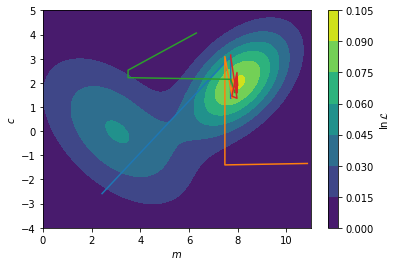
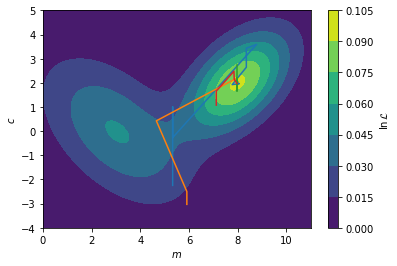
deploy: df79b967f5d3d94fc520a7e24f9d244747b547f7

diff --git a/searchindex.js b/searchindex.js
@@ -1,1 +1,1 @@
-Search.setIndex({docnames:["fitting_processes_and_problems/how_do_we_maximise_the_likelihood","fitting_processes_and_problems/how_to_leverage_our_prior_knowledge","fitting_processes_and_problems/what_is_the_likelihood","intro","model_dependent_analysis/what_is_model_dependent_analysis","model_reparameterisation/a_case_for_model_reparameterisation","model_reparameterisation/niti_multilayer_example","model_reparameterisation/phospholipid_monolayer_example","reflectometry_slab_models/how_we_calculate_the_reflectivity_of_a_slab_model","reflectometry_slab_models/roughness_and_microslicing","reflectometry_slab_models/the_slab_model","the_fourier_transform/an_introduction_to_fourier_transforms","the_fourier_transform/fourier_transforms_for_reflectometry_analysis"],envversion:{"sphinx.domains.c":2,"sphinx.domains.changeset":1,"sphinx.domains.citation":1,"sphinx.domains.cpp":4,"sphinx.domains.index":1,"sphinx.domains.javascript":2,"sphinx.domains.math":2,"sphinx.domains.python":3,"sphinx.domains.rst":2,"sphinx.domains.std":2,"sphinx.ext.intersphinx":1,"sphinxcontrib.bibtex":7,sphinx:56},filenames:["fitting_processes_and_problems/how_do_we_maximise_the_likelihood.ipynb","fitting_processes_and_problems/how_to_leverage_our_prior_knowledge.md","fitting_processes_and_problems/what_is_the_likelihood.ipynb","intro.md","model_dependent_analysis/what_is_model_dependent_analysis.md","model_reparameterisation/a_case_for_model_reparameterisation.md","model_reparameterisation/niti_multilayer_example.ipynb","model_reparameterisation/phospholipid_monolayer_example.ipynb","reflectometry_slab_models/how_we_calculate_the_reflectivity_of_a_slab_model.ipynb","reflectometry_slab_models/roughness_and_microslicing.ipynb","reflectometry_slab_models/the_slab_model.md","the_fourier_transform/an_introduction_to_fourier_transforms.ipynb","the_fourier_transform/fourier_transforms_for_reflectometry_analysis.ipynb"],objects:{},objnames:{},objtypes:{},terms:{"0":[0,1,2,3,7,8,9,12],"00039":3,"001":[8,9,12],"00260":3,"0053":3,"01980001503076100":3,"022":[3,6],"02614057":0,"0294":3,"03":3,"0330252":0,"04031769":0,"04493869":0,"0469":3,"04893":3,"0496667614679125":2,"06":[6,9],"07":3,"078":3,"09209783":0,"0j":[8,9],"1":[0,1,2,3,6,7,8,9,11,12],"10":[0,2,3,6,9,12],"1000":[0,2,7,8,12],"1008202821328":3,"1016":3,"1023":3,"1039":3,"104":12,"1051":3,"108":3,"1098":3,"11":[0,3,9],"1103":3,"1107":3,"1198":3,"12":[2,3,9],"1204":3,"15":[3,7],"16":[8,12],"16748113":0,"1761":3,"1763":3,"18":[3,7],"186":12,"186e":[8,9,12],"19":[3,7],"193":3,"1948":3,"194812030504":3,"1954":3,"197":3,"1980":3,"1997":3,"1998":3,"1999":3,"1e":9,"1f77b4":2,"1j":[8,12],"2":[0,2,3,4,6,8,9,12],"20":[8,9,12],"200":[3,8,9,12],"2006":3,"2011":3,"2018":3,"2019":3,"2021":3,"20384101638663543":2,"204":3,"21":3,"23":6,"248":3,"265":7,"265n_c":7,"2827":3,"2848":3,"297":3,"2e":9,"2k_nk_":9,"3":[0,2,3,6,8,9,10,12],"300":[8,12],"311":3,"338":3,"341":3,"342":3,"357":3,"359":3,"369":3,"370":3,"3blue1brown":11,"3e":[6,9],"4":[0,2,3,6,8,9,10,12],"417":6,"417e":6,"418":3,"42":2,"4245e":9,"438":6,"44":3,"4526":3,"47":6,"471":3,"5":[0,7,8,9],"500":[8,9,12],"504":3,"51":6,"52":3,"520":3,"53":3,"531":3,"58":6,"596":3,"5q":8,"6":[0,3,6,8,9,12],"6133":3,"6141":3,"69":6,"7":[0,2,7,9],"761":3,"779":3,"8":[0,2,6,9],"856832":3,"867":6,"871":12,"871e":[8,9,12],"9":[3,6,9],"90":7,"90434192":0,"908":6,"91":6,"922868":3,"9493e":9,"95":3,"951e":6,"978":3,"98":[3,12],"99":3,"9957561":0,"99615666":0,"99998503":0,"99999727":0,"\u00e0":3,"\u00e5":[6,7,8,9,11,12],"\u00e8":3,"\u00e9":3,"\u00f6":3,"abel\u00e8":[8,9],"abstract":6,"case":[1,10],"do":[4,8,12],"float":[0,2,6],"function":[0,2,4,7,8,9,10,12],"import":[0,2,4,6,7,8,9,10,12],"int":12,"return":[0,2,6,8,12],"switch":3,"true":0,"while":6,A:[3,4,6,7,9,10,12],As:10,Be:0,By:4,For:[2,3,5,6,7,12],If:[0,1,2,3,4,12],In:[0,1,3,4,5,7,10,12],It:[0,1,3,4,7,9,10],No:9,The:[0,2,3,4,5,6,7,8,9,11],Then:[4,8,12],There:[0,9],These:[0,9,12],_:[8,12],ab:[8,12],abel:[3,8,9],abeles48:[3,8],abeles_with_rough:9,abl:[5,9],about:[0,1,3,5],abov:[0,2,4,6,12],abscissa:2,absolut:0,accept:1,account:9,accur:4,acf2:12,acf:12,acheiv:7,achiev:[1,9],act:7,action:12,activ:5,ad:7,adapt:9,add:7,add_patch:9,addit:[5,7,12],addition:[4,6,8,9],admittedli:9,after:[0,12],again:[9,12],against:10,agre:2,agreement:[0,2,4],aid:8,aim:[0,2,3],air:[3,7,9,12],al:5,algorithm:[0,1,3,4],all:[1,8,11],allow:[5,6,7],alon:0,alpha:2,alreadi:[1,4],also:[6,7,9],although:12,amphiphil:7,an:[1,3,4,5,9,10],analog:[2,11],analogu:0,analys:[0,3],analysi:[0,1,2,3,6,7,8,10],analyt:4,andrew:3,angstrom:6,ani:[3,9],anlaysi:6,ann:3,anoth:12,anphi:3,apm:7,append:0,appl:3,appli:[0,4,5,7,9,12],applic:[0,3,8],approach:[0,3,4,5,6,7,8,9,10,12],approx:12,approxim:[3,8],ar:[0,1,2,3,4,5,6,7,8,9,10,11,12],area:5,argmax:0,argsort:0,arnold:3,around:9,arrai:[0,6,8,9,12],artifact:9,assembl:7,assess:0,assign:6,associ:[1,2,3],assum:[3,7],assumpt:[4,6,7],atom:[6,7],attach:7,attent:3,autocorrel:12,avail:12,avogardo:6,awar:[0,4],ax:[2,9],axhlin:12,b:[3,6,8],b_:[6,8],b_i:[6,7],b_ni:6,b_ti:6,back:0,bar:[2,8],base:[4,5,6,8],bay:[1,3],bayesian:[1,3],becom:12,been:[3,6,7,8,9,12],befor:[9,10,11],begin:8,being:[2,4],belief:1,believ:4,below:[0,2,6,7,8,9,10,11,12],benefit:7,berk:3,best:[0,2],beta:[6,7,8,9,12],beta_0:8,beta_1:10,beta_2:10,beta_:[6,7,12],beta_i:7,beta_microsl:9,beta_n:8,beta_ni:6,beta_ti:6,between:[0,2,4,8,9,10,11,12],bewteen:12,beyond:0,bia:4,bias:1,bigg:[2,12],biolog:[0,3],bj:3,bjorck11:[0,3],black:[0,12],block:3,blue:[0,2,12],bmatrix:8,book:[1,12],born:[3,8],borrow:12,both:7,bound:[1,6],bowen:3,bp63:[1,3],bring:8,broad:[2,4],broadli:4,brought:8,bsd:8,c9cp00203k:3,c:[0,2,3,12],calcul:[2,4,7,9,10,12],call:10,callback:0,campbel:3,can:[0,1,2,3,4,5,6,7,8,9,10,12],cannot:9,caract:3,carbon:7,career:4,cation:3,caus:7,cdot:6,chanc:3,chang:[4,12],character:3,characterist:8,characteristic_matric:8,charg:12,chem:3,chemic:[3,5,10],chemistri:4,chi:2,circ:7,clear:[0,4,9,10],clearer:8,clifton:3,close:8,cm:6,code:[0,3,6,9],collect:3,colloid:3,color:2,colorbar:0,comfort:3,common:[0,4,6,7,9,10],commonli:[0,2,5],companion:3,compar:[2,4,5,8,9],comparison:10,complet:[0,4],complex:[0,7,8],composit:7,concept:5,conclus:0,conj:8,conjug:8,consid:[0,1,2,4,6,7,8,9,10,12],consist:[6,7,10],constant:[1,4,6],constrain:[5,6,7],constraint:[5,7],construct:[1,4,8,10],content:3,context:4,continu:3,contourf:0,could:[1,10],coupl:0,cours:[0,3,4],cover:4,creat:9,croce:[3,9],crystallogr:3,crystallographi:12,css:[3,7],cubitt:3,curr:3,current:0,current_theta:0,curve_fit:2,d:[2,3,8,9,12],d_1:10,d_2:10,d_h:7,d_i:7,d_microsl:9,d_n:8,d_t:7,dan:3,data:[0,1,2,3,4,5,6,7,8,9,10,12],databas:6,datapoint:2,de:3,decomposit:11,deep:3,def:[0,2,6,8,12],defin:[2,4,6,7,10],deg2rad:7,delta:12,denot:12,densiti:[5,7,8,9,10,12],depend:[0,1,2,3,6,7,10],deposit:6,deriv:[10,12],descent:0,describ:[1,4,8,9,10],descript:[5,7,12],design:1,desir:[0,6],deslatt:3,destruct:10,detail:[4,11,12],determin:[0,3,8],develop:3,deviat:[2,8],devind:[1,12],diatom:4,diff:[8,12],differ:[9,10,12],differenti:[0,1,3],differential_evolut:0,difficult:7,dimens:[10,12],dimension:0,dioxid:[9,12],directli:6,discoveri:0,discuss:[2,9,10,12],disposit:6,distribut:[0,2],divid:12,docstr:8,doctrin:3,doe:[4,8,9],doi:3,domain:11,done:2,dot:2,downhil:0,dppc:7,dr:[1,12],draw:0,dtype:8,du:3,due:[4,12],dura:3,e:[3,10],each:[6,7,8,9,10],easili:[0,6],edgecolor:9,edit:3,edler:3,effect:[0,3,7,9,12],effici:3,elast:11,element:[2,6],elementari:[3,12],enabl:[1,9],encount:[0,4],end:8,ensur:4,entir:4,enumer:2,enzym:4,equaion:12,equat:4,error:[2,9],errorbar:2,essai:3,essenti:11,estim:12,et:5,european:3,eutect:3,evalu:[3,6],eventu:0,ever:4,everi:7,evolut:[0,1,3],evolutionari:0,exampl:[0,1,4,5,9,10],exist:9,exp:[8,9,12],expect:[1,4],experi:4,experiment:[2,4,5,10],explicitli:12,extend:7,extrem:[4,7,9],f:[3,6,8],factor:[2,8],fair:4,fals:9,familiar:[4,5,12],fantast:12,far:2,fashion:0,feel:3,fernandez:3,ff7f0e:2,fig:[2,4,7,9,10],figsiz:[2,9],figur:[0,2,3,4,9,12],fill:9,fill_between:2,find:[0,1,2,4,6,7,9,12],first:[0,2,6,8,10,12],firstli:4,fit:[2,4,6],flat:[9,12],flavour:0,flexion:3,flow:4,fm:6,focus:11,follow:[0,2,3,6,7,12],forc:4,form:[0,12],formal:[8,9],format:3,found:[0,1,6,7,8,9,12],fourier:[3,4,8,10],fourier_transform:12,frac:[1,2,6,7,8,9,12],fraction:7,free:3,frensel:8,fresnel:[8,9],fresnel_reflect:8,from:[0,2,3,4,5,6,7,8,9,10,11,12],full:12,fulli:7,fundament:[10,11],further:[0,1],g:[3,6],gcm:6,gener:[4,10],genet:3,geometri:10,gerelli:3,get:[2,3,4],give:[3,8,11],given:[0,2,5,7,9,10],gloabl:0,glob:3,global:[0,3],go:[0,8,10],good:2,gradient:2,gradient_callback:0,gradient_v:0,graphic:6,great:[1,11],greater:12,group:7,guess:0,h:3,ha:[3,6,7,9,12],hand:9,hard:6,have:[1,2,3,4,7,8,9,12],head:7,heavili:3,heavisid:12,helper:[0,9],henc:11,here:[2,8],heurist:3,higher:7,hopefulli:10,horizont:12,how:[2,3,4,5,10],howev:[0,2,4,5,6,9,10,12],hydrocarbon:7,hydrophil:7,hydrophob:[3,7],i:[2,6,7,8,10,12],identifi:9,ignor:9,implement:[0,8,9],impli:9,impos:1,improv:4,incid:[10,12],includ:[3,4,6,7,8,11],incorrectli:9,increas:[0,2,9],independ:4,indic:[0,2,12],individu:[6,8],induc:3,infact:1,influenc:9,inform:12,infti:12,inher:4,initi:0,input:8,insect:0,insight:[3,4],insolubl:7,inspir:0,instead:[0,1,6,8,12],integr:[1,3],intens:12,interact:[11,12],intercal:7,intercept:2,interest:[4,11],interfac:[3,7,8,9,10],interfer:10,interogr:9,interpret:9,introduc:[1,3,4,5,7,9,10],introduct:1,inv_fourier_transform:12,invers:[3,12],investig:[0,4,12],involv:[6,10],isbn:3,isi:3,issu:12,its:6,j:3,jackson:3,jci:3,john:[3,5],jpsc21:[3,5],jupyterhub:3,k0:8,k:[0,3,8,12],k_0:8,k_:[8,9],k_n:[8,9],karin:3,kinet:4,kn:8,knowledg:3,known:[4,7,9],l:[0,1,2,3],la:3,label:[0,8,9,12],languag:[3,5],larg:[3,9,12],later:[6,10],lawrenc:3,layer:[6,7,8,9,10],le:3,lead:[4,9,10,11],leak:9,lectromagn:3,lectur:3,left:9,legend:[8,9,12],length:[5,7,8,9,10,12],less:10,let:[1,12],licens:8,like:[1,4,7,9],likelihood:1,likleihood:1,limit:[4,6,7,12],line:[0,2,12],linearli:2,linspac:[0,2,7,8,9,12],lipid:3,literatur:5,ln:[0,2],loadtxt:2,local:0,log:[2,8,9,12],logic:[1,3,4],logpdf:0,lond:3,look:[0,1,2,4,8,11,12],loss:12,lost:10,lovel:3,low:8,lr99:[3,4],ls:2,lw:2,m:[0,2,3,8],m_:[6,8],m_w:6,m_w_ni:6,m_w_ti:6,made:[4,6],magnitud:12,mai:[2,5,6,9],majkrzak:3,major:[2,6],make:[3,4,5,7,8],mani:0,marker:2,mass:5,match:12,materi:[5,6,8,9,10,12],mathcal:[0,1,2],mathemat:3,mathit:[8,12],mathrm:[2,6,7,8,12],matnei:3,matplotlib:[0,2,7,8,9,12],matric:8,matrix:[8,9],matter:6,matyszewska:3,max:[2,8,12],maxima:0,maximis:[1,2],maximum:[0,1,2,7],mbd:[3,12],mccluskei:3,mead:0,mean:[0,6,7,9,12],measur:[1,2,4,10,11,12],media:8,member:0,membran:3,menten:4,merit:4,meshgrid:0,method:[3,8,9],methodolog:[0,3,4,9,12],metric:[0,2],micel:3,micha:4,might:4,milieux:3,minim:0,minima:0,minimis:[0,2],minimum:[0,1],modal:0,model:[0,1,2,3,6,7,9,12],modifi:9,modul:[0,9],mol:6,molecul:[4,5],molecular:6,monlay:7,monolay:3,more:[0,1,2,4,5,6,7,9,11],most:[0,8,9,10],move:0,movement:3,msfe:[3,7],much:[8,10],multi:0,multivariate_norm:0,must:[4,7],mv1:0,mv2:0,mv:0,my:3,n:[2,3,6,7,8,9],n_:[2,8],n_a:6,n_c:7,natur:7,nazaruk:3,ndarrai:[0,2,6,8,12],nearbi:0,necessari:[0,8,9],need:4,neg:0,nelder:0,nelson:3,neutron:[0,4,6,8,10,11,12],nevot:9,nevotc80:[3,9],newaxi:[8,12],ni:6,nickel:[6,9],nll:0,nois:12,noisi:12,non:0,none:0,norm:2,normal:[0,2,8,12],normal_wavevector:8,normalis:[2,12],note:[4,7,12],notic:[2,9],now:[0,2,7,8,9],np19:[3,8],np:[0,2,6,7,8,9,12],nuanc:10,nuetron:12,number:[0,2,6,7,12],number_lay:8,number_q:8,numpi:[0,2,6,7,8,9,12],o:2,oberal:0,observ:[2,9,10,12],obtain:[0,6,9,12],obvious:10,offer:4,onc:[0,1],ond:3,one:[0,2,7],ones:8,onli:[6,7,9,12],onlin:6,opin:3,optim:[0,2,3],optimis:[0,7],optimum:0,orang:[0,2],order:[0,8,10,12],origin:3,other:[2,7],our:[0,2,4,5,6,7,9,10,12],out:[1,6],outsid:1,over:3,overal:[0,2,8],overview:11,oxford:3,p0:8,p1:8,p:[1,2,3],packag:[6,8],pai:3,pair:5,panaccion:3,panosc:3,par54:[3,8],par:3,param:[2,6,8,12],paramet:[1,2,5,6,7,8,9,10],parameteris:[3,5],pari:3,parker:3,parratt:3,part:[2,12],particl:0,particular:[5,10],patch:9,path:[0,10],pattern:[10,11],pdf:[0,2],peak:12,pedulla:3,per:5,perfect:9,perfectli:9,perform:[2,11,12],perpendicular:12,pg:12,phase:[3,4,8,12],phase_factor:8,phi:8,phi_0:8,phi_i:7,phi_n:8,phi_t:8,phil:3,phospholipid:3,phy:3,physic:[3,4,5,7,10,12],physica:3,physrev:3,pi:[2,8,12],pictori:7,piec:[6,9,12],pint:6,place:1,plane:[7,12],pleas:3,plot:[0,2,3,7,8,9,12],plt:[0,2,7,8,9,12],point:2,polissag:3,popul:0,popular:4,posit:0,possibl:[0,2,4,7,9,10,12],posterior:1,power:3,prepar:[4,6],prescott:3,present:[4,12],press:3,pressur:7,preston:3,previou:4,previous:[5,8,9],price:3,print:[0,6],probabl:[1,2],probe:[0,1,4],problem:[0,3,4,12],procedur:3,process:[3,4,5,6],prod:8,produc:[3,4,12],product:8,profil:[9,10,12],program:3,project:3,propag:[3,8,10],propos:4,propto:1,py:[0,9],pyplot:[0,2,7,8,9,12],python:[3,8],q2:12,q:[4,8,9,11,12],q_:12,q_x:12,q_y:12,qualiti:0,quelqu:3,question:3,quick:12,r2:12,r:[3,7,8,9,10,12],r_:[8,9],r_abel:8,r_fourier:8,r_microsl:9,r_nevot_croc:9,r_with_rough:9,radiat:[11,12],rai:[3,12],random:0,rang:[4,8,9,12],rasant:3,rather:[4,5,6],ratio:10,ration:0,rayon:3,rck:3,re:0,reach:[0,6],reader:3,real:[8,9,10],realli:4,reason:6,rectangl:9,red:9,reduc:7,refin:10,reflect:[3,4,9,10,12],reflectometri:[0,2,4,5,6,7,8,9,10],refnx:[3,8],refract:[8,10],region:[0,7,9,12],relat:6,relationship:12,relev:7,reli:8,render:12,reparameteris:[2,3,6,7,10],repeat:6,repres:[2,4],reproduc:8,requir:3,res1:0,res2:0,resolut:[4,12],respect:12,result:[0,4,8,9,10,12],resultant_matrix:8,retriv:12,rev:3,rewrit:12,rho:[6,8],rho_:6,rho_ni:6,rho_ti:6,rho_to_beta:6,richardson:3,right:9,risat:3,robust:0,room:6,root:0,rout:0,rphysap:3,rsta:3,rstl:3,rule:9,s0021889811041446:3,s0921:3,s1359:3,s1600576718017296:3,s:[3,6,7,12],saaka:3,sai:12,same:[2,6,9,10,12],sampl:[4,6,9,11,12],sanchez:3,sansom:3,satija:3,scale:[3,12],scatter:[3,5,7,8,9,10,12],sci:3,scienc:4,scipi:[0,2,6],scope:0,section:[0,4,5,10],see:[0,9,10],seen:[1,2],select:2,self:7,semi:0,sensit:12,seri:[8,9,10],set:6,set_xlabel:[2,9],set_xlim:9,set_ylabel:[2,9],set_ylim:9,shao:3,shape:[0,8],shortest:9,should:[2,3,7,9,12],show:[0,2,3,4,6,7,8,9,10,12],shown:[0,2,4,7,8,9,10,12],si:12,sigma2:9,sigma3:9,sigma5:9,sigma7:9,sigma:[2,9],sigma_:9,sigma_n:2,silic:3,silicon:[6,9,12],similar:8,simpl:[0,1,3,4,6,7,10,12],simpli:0,simul:[4,5,6],sin:7,singl:[2,7],sio_2:12,sit:[2,7],siv11:[3,12],sivia:[1,3,12],sj06:[1,3],skill:3,skip:3,slab:[3,5,7,9],sld_with_rough:9,smooth:[9,12],so:2,soc:3,solid:3,solubl:7,solut:0,solv:3,solvat:7,solvent:[3,7],some:[0,1,2,4,7,9,10,11,12],someth:11,son:3,sourc:3,sp97:[0,3],space:[0,3,11],spallat:3,spectra:4,specular:3,sqrt:8,squar:[8,12],sratifi:3,standard:2,start:[0,1],stat:[0,2],state:1,step:[0,1,9],still:[6,9,12],stoichiometri:5,storn:3,straight_lin:2,straightforward:5,strand:7,stratifi:8,structur:[3,4,6,12],studi:[3,4,12],subject:3,subplot:[2,9],substanti:9,suggest:1,sum:[6,8,12],sum_:[2,6,7],summat:2,superphas:8,sur:3,sure:3,surfac:[3,6,8,12],surfact:3,swarm:0,synthesi:[4,5],system:[0,4,5,6,7,9,10,12],t:[0,3],t_t:7,tackl:4,tail:7,take:[0,1,4],taken:[8,10],tan80:[3,7],tanford:[3,7],techniqu:3,temperatur:6,tend:12,term:[2,5,6,7,10],textquotesingl:3,than:[0,6,12],them:[2,9],theorem:1,theori:[3,12],therefor:[0,1,4,5,6,9],theta:[0,1,2,7],thi:[0,1,2,3,4,5,6,7,8,9,10,11,12],thick:[7,8,9,10,12],thickn:9,thin:9,thing:4,think:5,those:1,thought:12,three:[4,6],through:[5,8,9,10],thumb:9,tight_layout:2,time:[6,9,11,12],tiqu:3,titanium:[6,9],todo:11,togeth:8,tool:[4,5,12],top4:0,top:12,total:3,touch:3,toward:[0,3,12],tradit:[3,6,7],train:3,tran:3,transform:[3,4,8,10],translat:5,transmitt:8,trigonometri:7,tude:3,turn:0,tutori:[1,3],two:[0,4,7,8,9,10],txt:2,typic:[0,2,4,5,6,7,9,10],u:6,uncertainti:2,unclear:6,under:[8,12],underli:[2,4],understand:[1,3,4,5,8,10,12],unintu:5,uniqu:0,unit:11,unitregistri:6,univers:3,unlik:7,unphys:[9,12],until:6,up:0,uphil:0,us:[0,1,2,3,4,5,6,7,8,9],useless:12,user:[3,12],utilis:12,valu:[0,1,2,5,6,7,8,12],valuabl:0,vari:6,variabl:6,varieti:0,vector:8,veri:[0,7,9],verr:3,version:12,vibrat:4,video:11,virtual:3,visualis:[9,12],vot:3,w:[3,6],wa:[1,3,4,10,12],wai:4,watch:11,water:[3,7],wave:[8,10],wavevector:[8,12],we:[1,2,3,4,5,6,7,9,10,11,12],weight:6,well:4,were:[1,7],what:3,when:[0,1,2,7,8,10],where:[0,1,2,4,6,7,8,9,10,12],which:[0,1,2,6,7,8,9,11,12],width:9,wilei:3,within:1,without:[4,9,12],word:4,work:[5,9],workflow:4,wormington:3,would:[1,4,7,9,10],wpmb99:[0,3],written:12,wwe:7,x:[0,2,3,12],x_n:2,xlabel:[0,7,8,9,12],xy:7,y:[0,1,2,3],y_fit:2,y_n:2,ylabel:[0,7,8,9,12],you:[1,2,3,4,12],your:4,yscale:[8,9,12],yy:2,z:[8,9,10,12],zero:8,zeros_lik:[8,12],zorder:2,zq:12},titles:["How do we maximise the likelihood?","How to leverage our prior knowledge?","What is the likelihood?","Introduction to neutron reflectometry fitting","What is model-dependent analysis?","A case for model reparameterisation","NiTi multilayer example","Phospholipid monolayer example","How we calculate the reflectivity of a slab model","Roughness and microslicing","The \u201cslab model\u201d","An introduction to Fourier transforms","Fourier transforms for reflectometry analysis"],titleterms:{"case":5,"do":0,A:[1,5],The:[10,12],algorithm:8,an:[11,12],analysi:[4,12],angl:7,approxim:12,area:7,bibliographi:3,born:12,calcul:8,chain:7,densiti:6,depend:4,exampl:[6,7,12],fit:3,fourier:[11,12],gradient:0,how:[0,1,8],interfac:12,interfaci:9,introduct:[3,11],knowledg:1,layer:12,length:6,leverag:1,likelihood:[0,2],mass:6,maximis:0,method:0,microsl:9,model:[4,5,8,10],molecul:7,monolay:7,multilay:6,neutron:3,niti:6,our:1,oxid:12,per:7,phospholipid:7,prior:1,problem:9,reflect:8,reflectometri:[3,12],reparameteris:5,rough:9,scatter:[6,11],singl:12,slab:[8,10],specular:12,stochast:0,tilt:7,transform:[11,12],uniform:1,us:12,we:[0,8],what:[2,4,11]}})
+Search.setIndex({docnames:["fitting_processes_and_problems/how_do_we_maximise_the_likelihood","fitting_processes_and_problems/how_to_leverage_our_prior_knowledge","fitting_processes_and_problems/what_is_the_likelihood","intro","model_dependent_analysis/what_is_model_dependent_analysis","model_reparameterisation/a_case_for_model_reparameterisation","model_reparameterisation/niti_multilayer_example","model_reparameterisation/phospholipid_monolayer_example","reflectometry_slab_models/how_we_calculate_the_reflectivity_of_a_slab_model","reflectometry_slab_models/roughness_and_microslicing","reflectometry_slab_models/the_slab_model","the_fourier_transform/an_introduction_to_fourier_transforms","the_fourier_transform/fourier_transforms_for_reflectometry_analysis"],envversion:{"sphinx.domains.c":2,"sphinx.domains.changeset":1,"sphinx.domains.citation":1,"sphinx.domains.cpp":4,"sphinx.domains.index":1,"sphinx.domains.javascript":2,"sphinx.domains.math":2,"sphinx.domains.python":3,"sphinx.domains.rst":2,"sphinx.domains.std":2,"sphinx.ext.intersphinx":1,"sphinxcontrib.bibtex":7,sphinx:56},filenames:["fitting_processes_and_problems/how_do_we_maximise_the_likelihood.ipynb","fitting_processes_and_problems/how_to_leverage_our_prior_knowledge.md","fitting_processes_and_problems/what_is_the_likelihood.ipynb","intro.md","model_dependent_analysis/what_is_model_dependent_analysis.md","model_reparameterisation/a_case_for_model_reparameterisation.md","model_reparameterisation/niti_multilayer_example.ipynb","model_reparameterisation/phospholipid_monolayer_example.ipynb","reflectometry_slab_models/how_we_calculate_the_reflectivity_of_a_slab_model.ipynb","reflectometry_slab_models/roughness_and_microslicing.ipynb","reflectometry_slab_models/the_slab_model.md","the_fourier_transform/an_introduction_to_fourier_transforms.md","the_fourier_transform/fourier_transforms_for_reflectometry_analysis.ipynb"],objects:{},objnames:{},objtypes:{},terms:{"0":[0,1,2,3,7,8,9,12],"00039":3,"001":[8,9,12],"00260":3,"0053":3,"01980001503076100":3,"022":[3,6],"02614057":0,"0294":3,"03":3,"0330252":0,"04493869":0,"0469":3,"04893":3,"0496667614679125":2,"06":[6,9],"07":3,"078":3,"09209783":0,"0j":[8,9],"1":[0,1,2,3,6,7,8,9,11,12],"10":[0,2,3,6,9,12],"1000":[0,2,7,8,12],"1008202821328":3,"1016":3,"1023":3,"1039":3,"104":12,"1051":3,"108":3,"1098":3,"11":[0,3,9],"1103":3,"1107":3,"1198":3,"12":[2,3,9],"1204":3,"15":[3,7],"16":[8,12],"16748113":0,"1761":3,"1763":3,"18":[3,7],"186":12,"186e":[8,9,12],"19":[3,7],"193":3,"1948":3,"194812030504":3,"1954":3,"197":3,"1980":3,"1997":3,"1998":3,"1999":3,"1e":9,"1f77b4":2,"1j":[8,12],"2":[0,2,3,4,6,8,9,12],"20":[8,9,12],"200":[3,8,9,12],"2006":3,"2011":3,"2018":3,"2019":3,"2021":3,"20384101638663543":2,"204":3,"21":3,"23":6,"248":3,"265":7,"265n_c":7,"2827":3,"2848":3,"297":3,"2e":9,"2k_nk_":9,"3":[0,2,3,6,8,9,10,12],"300":[8,12],"311":3,"338":3,"341":3,"342":3,"357":3,"359":3,"369":3,"370":3,"3blue1brown":11,"3e":[6,9],"4":[0,2,3,6,8,9,10,12],"417":6,"417e":6,"418":3,"42":2,"4245e":9,"438":6,"44":3,"4526":3,"47":6,"471":3,"5":[0,7,8,9],"500":[8,9,12],"504":3,"51":6,"52":3,"520":3,"53":3,"531":3,"58":6,"596":3,"5q":8,"6":[0,3,6,8,9,12],"6133":3,"6141":3,"69":6,"7":[0,2,7,9],"761":3,"779":3,"8":[0,2,6,9],"8219366":0,"856832":3,"867":6,"871":12,"871e":[8,9,12],"9":[3,6,9],"90":7,"908":6,"91":6,"922868":3,"9493e":9,"95":3,"951e":6,"96445473":0,"978":3,"98":[3,12],"99":3,"9957561":0,"99615666":0,"99998503":0,"99999727":0,"\u00e0":3,"\u00e5":[6,7,8,9,11,12],"\u00e8":3,"\u00e9":3,"\u00f6":3,"abel\u00e8":[8,9],"abstract":6,"case":[1,10],"do":[4,8,12],"float":[0,2,6],"function":[0,2,4,7,8,9,10,12],"import":[0,2,4,6,7,8,9,10,12],"int":12,"return":[0,2,6,8,12],"switch":3,"true":0,"while":6,A:[3,4,6,7,9,10,12],As:10,Be:0,By:4,For:[2,3,5,6,7,12],If:[0,1,2,3,4,12],In:[0,1,3,4,5,7,10,12],It:[0,1,3,4,7,9,10],No:9,The:[0,2,3,4,5,6,7,8,9,11],Then:[4,8,12],There:[0,9],These:[0,9,12],_:[8,12],ab:[8,12],abel:[3,8,9],abeles48:[3,8],abeles_with_rough:9,abl:[5,9],about:[0,1,3,5],abov:[0,2,4,6,12],abscissa:2,absolut:0,accept:1,account:9,accur:4,acf2:12,acf:12,acheiv:7,achiev:[1,9],act:7,action:12,activ:5,ad:7,adapt:9,add:7,add_patch:9,addit:[5,7,12],addition:[4,6,8,9],admittedli:9,after:[0,12],again:[9,12],against:10,agre:2,agreement:[0,2,4],aid:8,aim:[0,2,3],air:[3,7,9,12],al:5,algorithm:[0,1,3,4],all:[1,8,11],allow:[5,6,7],alon:0,alpha:2,alreadi:[1,4],also:[6,7,9],although:12,amphiphil:7,an:[1,3,4,5,9,10],analog:[2,11],analogu:0,analys:[0,3],analysi:[0,1,2,3,6,7,8,10],analyt:4,andrew:3,angstrom:6,ani:[3,9],anlaysi:6,ann:3,anoth:12,anphi:3,apm:7,append:0,appl:3,appli:[0,4,5,7,9,12],applic:[0,3,8],approach:[0,3,4,5,6,7,8,9,10,12],approx:12,approxim:[3,8],ar:[0,1,2,3,4,5,6,7,8,9,10,11,12],area:5,argmax:0,argsort:0,arnold:3,around:9,arrai:[0,6,8,9,12],artifact:9,assembl:7,assess:0,assign:6,associ:[1,2,3],assum:[3,7],assumpt:[4,6,7],atom:[6,7],attach:7,attent:3,autocorrel:12,avail:12,avogardo:6,awar:[0,4],ax:[2,9],axhlin:12,b:[3,6,8],b_:[6,8],b_i:[6,7],b_ni:6,b_ti:6,back:0,bar:[2,8],base:[4,5,6,8],bay:[1,3],bayesian:[1,3],becom:12,been:[3,6,7,8,9,12],befor:[9,10,11],begin:8,being:[2,4],belief:1,believ:4,below:[0,2,6,7,8,9,10,11,12],benefit:7,berk:3,best:[0,2],beta:[6,7,8,9,12],beta_0:8,beta_1:10,beta_2:10,beta_:[6,7,12],beta_i:7,beta_microsl:9,beta_n:8,beta_ni:6,beta_ti:6,between:[0,2,4,8,9,10,11,12],bewteen:12,beyond:0,bia:4,bias:1,bigg:[2,12],biolog:[0,3],bj:3,bjorck11:[0,3],black:[0,12],block:3,blue:[0,2,12],bmatrix:8,book:[1,12],born:[3,8],borrow:12,both:7,bound:[1,6],bowen:3,bp63:[1,3],bring:8,broad:[2,4],broadli:4,brought:8,bsd:8,c9cp00203k:3,c:[0,2,3,12],calcul:[2,4,7,9,10,12],call:10,callback:0,campbel:3,can:[0,1,2,3,4,5,6,7,8,9,10,11,12],cannot:9,caract:3,carbon:7,career:4,cation:3,caus:7,cdot:6,chanc:3,chang:[4,12],character:3,characterist:8,characteristic_matric:8,charg:12,chem:3,chemic:[3,5,10],chemistri:4,chi:2,circ:7,clear:[0,4,9,10],clearer:8,clifton:3,close:8,cm:6,code:[0,3,6,9],collect:3,colloid:3,color:2,colorbar:0,comfort:3,common:[0,4,6,7,9,10],commonli:[0,2,5],companion:3,compar:[2,4,5,8,9],comparison:10,complet:[0,4],complex:[0,7,8],composit:7,concept:5,conclus:0,conj:8,conjug:8,consid:[0,1,2,4,6,7,8,9,10,11,12],consist:[6,7,10],constant:[1,4,6],constrain:[5,6,7],constraint:[5,7],construct:[1,4,8,10],content:3,context:4,continu:3,contourf:0,could:[1,10],coupl:0,cours:[0,3,4],cover:4,creat:9,croce:[3,9],crystallogr:3,crystallographi:12,css:[3,7],cubitt:3,curr:3,current:0,current_theta:0,curve_fit:2,d:[2,3,8,9,12],d_1:10,d_2:10,d_h:7,d_i:7,d_microsl:9,d_n:8,d_t:7,dan:3,data:[0,1,2,3,4,5,6,7,8,9,10,12],databas:6,datapoint:2,de:3,decomposit:11,deep:3,def:[0,2,6,8,12],defin:[2,4,6,7,10],deg2rad:7,delta:12,denot:12,densiti:[5,7,8,9,10,12],depend:[0,1,2,3,6,7,10],deposit:6,deriv:[10,12],descent:0,describ:[1,4,8,9,10],descript:[5,7,12],design:1,desir:[0,6],deslatt:3,destruct:10,detail:[4,11,12],determin:[0,3,8],develop:3,deviat:[2,8],devind:[1,12],diatom:4,diff:[8,12],differ:[9,10,12],differenti:[0,1,3],differential_evolut:0,difficult:7,dimens:[10,12],dimension:0,dioxid:[9,12],directli:6,discoveri:0,discuss:[2,9,10,12],disposit:6,distribut:[0,2],divid:12,docstr:8,doctrin:3,doe:[4,8,9],doi:3,domain:11,done:2,dot:2,downhil:0,dppc:7,dr:[1,12],draw:0,dtype:8,du:3,due:[4,12],dura:3,e:[3,10],each:[6,7,8,9,10],easili:[0,6],edgecolor:9,edit:3,edler:3,effect:[0,3,7,9,12],effici:3,elast:11,element:[2,6],elementari:[3,12],enabl:[1,9],encount:[0,4],end:8,ensur:4,entir:4,enumer:2,enzym:4,equaion:12,equat:4,error:[2,9],errorbar:2,essai:3,essenti:11,estim:12,et:5,european:3,eutect:3,evalu:[3,6],eventu:0,ever:4,everi:7,evolut:[0,1,3],evolutionari:0,exampl:[0,1,4,5,9,10],exist:9,exp:[8,9,12],expect:[1,4],experi:4,experiment:[2,4,5,10],explicitli:12,extend:7,extrem:[4,7,9],f:[3,6,8],factor:[2,8],fair:4,fals:9,familiar:[4,5,12],fantast:12,far:2,fashion:0,feel:3,fernandez:3,ff7f0e:2,fig:[2,4,7,9,10],figsiz:[2,9],figur:[0,2,3,4,9,12],fill:9,fill_between:2,find:[0,1,2,4,6,7,9,12],first:[0,2,6,8,10,12],firstli:4,fit:[2,4,6],flat:[9,12],flavour:0,flexion:3,flow:4,fm:6,focus:11,follow:[0,2,3,6,7,12],forc:4,form:[0,12],formal:[8,9],format:3,found:[0,1,6,7,8,9,12],fourier:[3,4,8,10],fourier_transform:12,frac:[1,2,6,7,8,9,12],fraction:7,free:3,frensel:8,fresnel:[8,9],fresnel_reflect:8,from:[0,2,3,4,5,6,7,8,9,10,11,12],full:12,fulli:7,fundament:[10,11],further:[0,1],g:[3,6],gcm:6,gener:[4,10],genet:3,geometri:10,gerelli:3,get:[2,3,4],give:[3,8,11],given:[0,2,5,7,9,10],gloabl:0,glob:3,global:[0,3],go:[0,8,10,11],good:2,gradient:2,gradient_callback:0,gradient_v:0,graphic:6,great:[1,11],greater:12,group:7,guess:0,h:3,ha:[3,6,7,9,12],hand:9,hard:6,have:[1,2,3,4,7,8,9,12],head:7,heavili:3,heavisid:12,helper:[0,9],henc:11,here:[2,8],heurist:3,higher:7,hopefulli:10,horizont:12,how:[2,3,4,5,10],howev:[0,2,4,5,6,9,10,12],hydrocarbon:7,hydrophil:7,hydrophob:[3,7],i:[2,6,7,8,10,12],identifi:9,ignor:9,impact:11,implement:[0,8,9],impli:9,impos:1,improv:4,incid:[10,12],includ:[3,4,6,7,8,11],incorrectli:9,increas:[0,2,9],independ:4,indic:[0,2,12],individu:[6,8],induc:3,infact:1,influenc:9,inform:12,infti:12,inher:4,initi:0,input:8,insect:0,insight:[3,4],insolubl:7,inspir:0,instead:[0,1,6,8,12],integr:[1,3],intens:12,interact:[11,12],intercal:7,intercept:2,interest:[4,11],interfac:[3,7,8,9,10],interfer:10,interogr:9,interpret:9,introduc:[1,3,4,5,7,9,10],introduct:1,inv_fourier_transform:12,invers:[3,12],investig:[0,4,12],involv:[6,10],isbn:3,isi:3,issu:12,its:6,j:3,jackson:3,jci:3,john:[3,5],jpsc21:[3,5],jupyterhub:3,k0:8,k:[0,3,8,12],k_0:8,k_:[8,9],k_n:[8,9],karin:3,kinet:4,kn:8,knowledg:3,known:[4,7,9],l:[0,1,2,3],la:3,label:[0,8,9,12],languag:[3,5],larg:[3,9,12],later:[6,10],lawrenc:3,layer:[6,7,8,9,10],le:3,lead:[4,9,10,11],leak:9,lectromagn:3,lectur:3,left:9,legend:[8,9,12],length:[5,7,8,9,10,12],less:10,let:[1,12],licens:8,like:[1,4,7,9],likelihood:1,likleihood:1,limit:[4,6,7,12],line:[0,2,12],linearli:2,linspac:[0,2,7,8,9,12],lipid:3,literatur:5,ln:[0,2],loadtxt:2,local:0,log:[2,8,9,12],logic:[1,3,4],logpdf:0,lond:3,look:[0,1,2,4,8,11,12],loss:12,lost:10,lovel:3,low:8,lr99:[3,4],ls:2,lw:2,m:[0,2,3,8],m_:[6,8],m_w:6,m_w_ni:6,m_w_ti:6,made:[4,6],magnitud:12,mai:[2,5,6,9],majkrzak:3,major:[2,6],make:[3,4,5,7,8],mani:0,marker:2,mass:5,match:12,materi:[5,6,8,9,10,12],mathcal:[0,1,2],mathemat:3,mathit:[8,12],mathrm:[2,6,7,8,12],matnei:3,matplotlib:[0,2,7,8,9,12],matric:8,matrix:[8,9],matter:6,matyszewska:3,max:[2,8,12],maxima:0,maximis:[1,2],maximum:[0,1,2,7],mbd:[3,12],mccluskei:3,mead:0,mean:[0,6,7,9,12],measur:[1,2,4,10,11,12],media:8,member:0,membran:3,menten:4,merit:4,meshgrid:0,method:[3,8,9],methodolog:[0,3,4,9,12],metric:[0,2],micel:3,micha:4,might:4,milieux:3,minim:0,minima:0,minimis:[0,2],minimum:[0,1],modal:0,model:[0,1,2,3,6,7,9,12],modifi:9,modul:[0,9],mol:6,molecul:[4,5],molecular:6,monlay:7,monolay:3,more:[0,1,2,4,5,6,7,9,11],most:[0,8,9,10],move:0,movement:3,msfe:[3,7],much:[8,10],multi:0,multivariate_norm:0,must:[4,7],mv1:0,mv2:0,mv:0,my:3,n:[2,3,6,7,8,9],n_:[2,8],n_a:6,n_c:7,natur:7,nazaruk:3,ndarrai:[0,2,6,8,12],nearbi:0,necessari:[0,8,9],need:4,neg:0,nelder:0,nelson:3,neutron:[0,4,6,8,10,11,12],nevot:9,nevotc80:[3,9],newaxi:[8,12],ni:6,nickel:[6,9],nll:0,nois:12,noisi:12,non:0,none:0,norm:2,normal:[0,2,8,12],normal_wavevector:8,normalis:[2,12],note:[4,7,12],notic:[2,9],now:[0,2,7,8,9,11],np19:[3,8],np:[0,2,6,7,8,9,12],nuanc:10,nuetron:12,number:[0,2,6,7,12],number_lay:8,number_q:8,numpi:[0,2,6,7,8,9,12],o:2,oberal:0,observ:[2,9,10,12],obtain:[0,6,9,12],obvious:10,offer:4,onc:[0,1],ond:3,one:[0,2,7],ones:8,onli:[6,7,9,12],onlin:6,opin:3,optim:[0,2,3],optimis:[0,7],optimum:0,orang:[0,2],order:[0,8,10,12],origin:3,other:[2,7],our:[0,2,4,5,6,7,9,10,12],out:[1,6],outsid:1,over:3,overal:[0,2,8],overview:11,oxford:3,p0:8,p1:8,p:[1,2,3],packag:[6,8],pai:3,pair:5,panaccion:3,panosc:3,par54:[3,8],par:3,param:[2,6,8,12],paramet:[1,2,5,6,7,8,9,10],parameteris:[3,5],pari:3,parker:3,parratt:3,part:[2,12],particl:0,particular:[5,10],patch:9,path:[0,10],pattern:[10,11],pdf:[0,2],peak:12,pedulla:3,per:5,perfect:9,perfectli:9,perform:[2,11,12],perpendicular:12,pg:12,phase:[3,4,8,12],phase_factor:8,phi:8,phi_0:8,phi_i:7,phi_n:8,phi_t:8,phil:3,phospholipid:3,phy:3,physic:[3,4,5,7,10,12],physica:3,physrev:3,pi:[2,8,12],pictori:7,piec:[6,9,12],pint:6,place:1,plane:[7,12],pleas:3,plot:[0,2,3,7,8,9,12],plt:[0,2,7,8,9,12],point:2,polissag:3,popul:0,popular:4,posit:0,possibl:[0,2,4,7,9,10,12],posterior:1,power:3,prepar:[4,6],prescott:3,present:[4,12],press:3,pressur:7,preston:3,previou:4,previous:[5,8,9],price:3,print:[0,6],probabl:[1,2],probe:[0,1,4],problem:[0,3,4,12],procedur:3,process:[3,4,5,6],prod:8,produc:[3,4,12],product:8,profil:[9,10,12],program:3,project:3,propag:[3,8,10],propos:4,propto:1,py:[0,9],pyplot:[0,2,7,8,9,12],python:[3,8],q2:12,q:[4,8,9,11,12],q_:12,q_x:12,q_y:12,qualiti:0,quelqu:3,question:3,quick:12,r2:12,r:[3,7,8,9,10,12],r_:[8,9],r_abel:8,r_fourier:8,r_microsl:9,r_nevot_croc:9,r_with_rough:9,radiat:[11,12],rai:[3,12],random:0,rang:[4,8,9,12],rasant:3,rather:[4,5,6],ratio:10,ration:0,rayon:3,rck:3,re:0,reach:[0,6],reader:3,real:[8,9,10],realli:4,reason:6,rectangl:9,red:9,reduc:7,refin:10,reflect:[3,4,9,10,12],reflectmetri:11,reflectometri:[0,2,4,5,6,7,8,9,10],refnx:[3,8],refract:[8,10],region:[0,7,9,12],relat:6,relationship:12,relev:7,reli:8,render:12,reparameteris:[2,3,6,7,10],repeat:6,repres:[2,4],reproduc:8,requir:3,res1:0,res2:0,resolut:[4,12],respect:12,result:[0,4,8,9,10,12],resultant_matrix:8,retriv:12,rev:3,rewrit:12,rho:[6,8],rho_:6,rho_ni:6,rho_ti:6,rho_to_beta:6,richardson:3,right:9,risat:3,robust:0,room:6,root:0,rout:0,rphysap:3,rsta:3,rstl:3,rule:9,s0021889811041446:3,s0921:3,s1359:3,s1600576718017296:3,s:[3,6,7,12],saaka:3,sai:12,same:[2,6,9,10,12],sampl:[4,6,9,11,12],sanchez:3,sansom:3,satija:3,scale:[3,12],scatter:[3,5,7,8,9,10,11,12],sci:3,scienc:4,scipi:[0,2,6],scope:0,section:[0,4,5,10],see:[0,9,10],seen:[1,2],select:2,self:7,semi:0,sensit:12,seri:[8,9,10],set:6,set_xlabel:[2,9],set_xlim:9,set_ylabel:[2,9],set_ylim:9,shao:3,shape:[0,8],shortest:9,should:[2,3,7,9,12],show:[0,2,3,4,6,7,8,9,10,12],shown:[0,2,4,7,8,9,10,12],si:12,sigma2:9,sigma3:9,sigma5:9,sigma7:9,sigma:[2,9],sigma_:9,sigma_n:2,silic:3,silicon:[6,9,12],similar:8,simpl:[0,1,3,4,6,7,10,12],simpli:0,simul:[4,5,6],sin:7,singl:[2,7],sio_2:12,sit:[2,7],siv11:[3,12],sivia:[1,3,12],sj06:[1,3],skill:3,skip:3,slab:[3,5,7,9],sld_with_rough:9,smooth:[9,12],so:2,soc:3,solid:3,solubl:7,solut:0,solv:3,solvat:7,solvent:[3,7],some:[0,1,2,4,7,9,10,11,12],someth:11,son:3,sourc:3,sp97:[0,3],space:[0,3,11],spallat:3,spectra:4,specular:3,sqrt:8,squar:[8,12],sratifi:3,standard:2,start:[0,1],stat:[0,2],state:1,step:[0,1,9],still:[6,9,12],stoichiometri:5,storn:3,straight_lin:2,straightforward:5,strand:7,stratifi:8,structur:[3,4,6,12],studi:[3,4,12],subject:3,subplot:[2,9],substanti:9,suggest:1,sum:[6,8,12],sum_:[2,6,7],summat:2,superphas:8,sur:3,sure:3,surfac:[3,6,8,12],surfact:3,swarm:0,synthesi:[4,5],system:[0,4,5,6,7,9,10,12],t:[0,3],t_t:7,tackl:4,tail:7,take:[0,1,4],taken:[8,10],tan80:[3,7],tanford:[3,7],techniqu:3,temperatur:6,tend:12,term:[2,5,6,7,10],textquotesingl:3,than:[0,6,12],them:[2,9],theorem:1,theori:[3,12],therefor:[0,1,4,5,6,9],theta:[0,1,2,7],thi:[0,1,2,3,4,5,6,7,8,9,10,11,12],thick:[7,8,9,10,12],thickn:9,thin:9,thing:4,think:5,those:1,thought:12,three:[4,6],through:[5,8,9,10],thumb:9,tight_layout:2,time:[6,9,11,12],tiqu:3,titanium:[6,9],togeth:8,tool:[4,5,12],top4:0,top:12,total:3,touch:3,toward:[0,3,12],tradit:[3,6,7],train:3,tran:3,transform:[3,4,8,10],translat:5,transmitt:8,trigonometri:7,tude:3,turn:0,tutori:[1,3],two:[0,4,7,8,9,10],txt:2,typic:[0,2,4,5,6,7,9,10],u:6,uncertainti:2,unclear:6,under:[8,12],underli:[2,4],understand:[1,3,4,5,8,10,12],unintu:5,uniqu:0,unit:11,unitregistri:6,univers:3,unlik:7,unphys:[9,12],until:6,up:0,uphil:0,us:[0,1,2,3,4,5,6,7,8,9],useless:12,user:[3,12],utilis:12,valu:[0,1,2,5,6,7,8,12],valuabl:0,vari:6,variabl:6,varieti:0,vector:8,veri:[0,7,9],verr:3,version:12,vibrat:4,video:11,virtual:3,visualis:[9,12],vot:3,w:[3,6],wa:[1,3,4,10,12],wai:4,watch:11,water:[3,7],wave:[8,10],wavevector:[8,12],we:[1,2,3,4,5,6,7,9,10,11,12],weight:6,well:4,were:[1,7],what:3,when:[0,1,2,7,8,10],where:[0,1,2,4,6,7,8,9,10,12],which:[0,1,2,6,7,8,9,11,12],width:9,wilei:3,within:1,without:[4,9,12],word:4,work:[5,9],workflow:4,wormington:3,would:[1,4,7,9,10],wpmb99:[0,3],written:12,wwe:7,x:[0,2,3,12],x_n:2,xlabel:[0,7,8,9,12],xy:7,y:[0,1,2,3],y_fit:2,y_n:2,ylabel:[0,7,8,9,12],you:[1,2,3,4,12],your:4,yscale:[8,9,12],yy:2,z:[8,9,10,12],zero:8,zeros_lik:[8,12],zorder:2,zq:12},titles:["How do we maximise the likelihood?","How to leverage our prior knowledge?","What is the likelihood?","Introduction to neutron reflectometry fitting","What is model-dependent analysis?","A case for model reparameterisation","NiTi multilayer example","Phospholipid monolayer example","How we calculate the reflectivity of a slab model","Roughness and microslicing","The \u201cslab model\u201d","An introduction to Fourier transforms","Fourier transforms for reflectometry analysis"],titleterms:{"case":5,"do":0,A:[1,5],The:[10,12],algorithm:8,an:[11,12],analysi:[4,12],angl:7,approxim:12,area:7,bibliographi:3,born:12,calcul:8,chain:7,densiti:6,depend:4,exampl:[6,7,12],fit:3,fourier:[11,12],gradient:0,how:[0,1,8],interfac:12,interfaci:9,introduct:[3,11],knowledg:1,layer:12,length:6,leverag:1,likelihood:[0,2],mass:6,maximis:0,method:0,microsl:9,model:[4,5,8,10],molecul:7,monolay:7,multilay:6,neutron:3,niti:6,our:1,oxid:12,per:7,phospholipid:7,prior:1,problem:9,reflect:8,reflectometri:[3,12],reparameteris:5,rough:9,scatter:6,singl:12,slab:[8,10],specular:12,stochast:0,tilt:7,transform:[11,12],uniform:1,us:12,we:[0,8],what:[2,4,11]}})

diff --git a/the_fourier_transform/an_introduction_to_fourier_transforms.html b/the_fourier_transform/an_introduction_to_fourier_transforms.html
@@ -230,9 +230,9 @@
         <!-- ipynb file if we had a myst markdown file -->
         
         <!-- Download raw file -->
-        <a class="dropdown-buttons" href="../_sources/the_fourier_transform/an_introduction_to_fourier_transforms.ipynb"><button type="button"
+        <a class="dropdown-buttons" href="../_sources/the_fourier_transform/an_introduction_to_fourier_transforms.md"><button type="button"
                 class="btn btn-secondary topbarbtn" title="Download source file" data-toggle="tooltip"
-                data-placement="left">.ipynb</button></a>
+                data-placement="left">.md</button></a>
         <!-- Download PDF via print -->
         <button type="button" id="download-print" class="btn btn-secondary topbarbtn" title="Print to PDF"
             onClick="window.print()" data-toggle="tooltip" data-placement="left">.pdf</button>
@@ -266,23 +266,6 @@
 
             <!-- Launch buttons -->
 
-<div class="dropdown-buttons-trigger">
-    <button id="dropdown-buttons-trigger" class="btn btn-secondary topbarbtn"
-        aria-label="Launch interactive content"><i class="fas fa-rocket"></i></button>
-    <div class="dropdown-buttons">
-        
-        <a class="binder-button" href="https://mybinder.org/v2/gh/arm61/isis_school/master?urlpath=tree/docs/the_fourier_transform/an_introduction_to_fourier_transforms.ipynb"><button type="button"
-                class="btn btn-secondary topbarbtn" title="Launch Binder" data-toggle="tooltip"
-                data-placement="left"><img class="binder-button-logo"
-                    src="../_static/images/logo_binder.svg"
-                    alt="Interact on binder">Binder</button></a>
-        
-        
-        
-        
-    </div>
-</div>
-
         </div>
 
         <!-- Table of contents -->
@@ -296,11 +279,6 @@
  <li class="toc-h2 nav-item toc-entry">
   <a class="reference internal nav-link" href="#what-is-a-fourier-transform">
    What is a Fourier transform?
-  </a>
- </li>
- <li class="toc-h2 nav-item toc-entry">
-  <a class="reference internal nav-link" href="#fourier-transforms-in-scattering">
-   Fourier transforms in scattering
   </a>
  </li>
 </ul>
@@ -327,10 +305,8 @@ The scattering interaction between radiation and some sample essentially perform
 </div>
 <center>
     <iframe width="560" height="315" src="https://www.youtube.com/embed/spUNpyF58BY" title="YouTube video player" frameborder="0" allow="accelerometer; autoplay; clipboard-write; encrypted-media; gyroscope; picture-in-picture" allowfullscreen></iframe>
-</center></div>
-<div class="section" id="fourier-transforms-in-scattering">
-<h2>Fourier transforms in scattering<a class="headerlink" href="#fourier-transforms-in-scattering" title="Permalink to this headline">¶</a></h2>
-<p>TODO.</p>
+</center>
+<p>We can now go on to consider the impact of Fourier transforms in neutron reflectmetry.</p>
 </div>
 </div>
 

diff --git a/fitting_processes_and_problems/how_do_we_maximise_the_likelihood.html b/fitting_processes_and_problems/how_do_we_maximise_the_likelihood.html
@@ -458,7 +458,7 @@ This is necessary as, as we can see from the oberall maximum, the differential e
 </div>
 <div class="cell_output docutils container">
 <img alt="../_images/how_do_we_maximise_the_likelihood_6_0.png" src="../_images/how_do_we_maximise_the_likelihood_6_0.png" />
-<div class="output stream highlight-myst-ansi notranslate"><div class="highlight"><pre><span></span>Overall Maximum: [8.04031769 1.90434192]
+<div class="output stream highlight-myst-ansi notranslate"><div class="highlight"><pre><span></span>Overall Maximum: [7.8219366  1.96445473]
 </pre></div>
 </div>
 </div>

diff --git a/_sources/the_fourier_transform/an_introduction_to_fourier_transforms.md b/_sources/the_fourier_transform/an_introduction_to_fourier_transforms.md
@@ -1,0 +1,17 @@
+# An introduction to Fourier transforms
+
+## What is a Fourier transform?
+
+The [Fourier transform](https://en.wikipedia.org/wiki/Fourier_transform) is fundamental to the scattering of all radiation, including **neutrons**. 
+The scattering interaction between radiation and some sample essentially performs a Fourier transform on the radiation, leading to the scattering pattern that we measure. 
+
+Before we look in more detail at Fourier transforms and scattering, watch the video below from [3Blue1Brown](https://www.3blue1brown.com) which gives a great overview of the Fourier transform. 
+```{note}
+This video focuses on the decomposition of something in the time domain, but for elastic scattering we are interested in the analogous decomposition in the space domain (hence we measure $q$ in units of Å<sup>-1</sup>).
+```
+
+<center>
+    <iframe width="560" height="315" src="https://www.youtube.com/embed/spUNpyF58BY" title="YouTube video player" frameborder="0" allow="accelerometer; autoplay; clipboard-write; encrypted-media; gyroscope; picture-in-picture" allowfullscreen></iframe>
+</center>
+
+We can now go on to consider the impact of Fourier transforms in neutron reflectmetry. 
